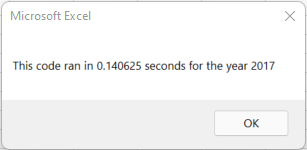
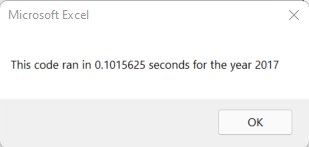
updating readme and screenshots

Changed region(s): [[0.0, 0.0, 1.0, 1.0], [0.7036, 0.898, 0.9381, 0.9252], [0.7915, 0.7891, 0.8502, 0.8707]]

diff --git a/README.md b/README.md
@@ -1,1 +1,31 @@
-# stock-analysis
+# Stock Analysis
+
+## Overview of Project:
+The purpose of this analysis was to refactor the code in the existing stock analysis file to determine if we can increase the efficiency.  The goal was to speed up the code to allow for analysis of more than just a handful of stocks.  Refactoring allowed us to collect the same information but in a more efficient manner.
+
+## Results
+As far as stock performance is concerned, 2017 fared significantly better than 2018.  Only one of the selected stocks, TERP, saw negative return in 2017 of -7.2%.  On the other hand, in 2018 there were only two stocks that had a positive return, ENPH and RUN.  The rest saw losses, some significant.
+
+Some refactoring of the code led to significant improvements in performance.  Processing times for the code dropped to around 0.1 seconds compared to just under a full second with the previous code
+
+![2017](/Resources/VBA_Challenge_2017.png)
+![2018](/Resources/VBA_Challenge_2018.png)
+### Previous Code
+Refactoring the code allowed us to eliminate some redundancy in working through the rows of data.  The previous code had a For loop to cycle through the tickers with another For loop nested inside to work through every row of data.  This meant each row was being touched once for each ticker.  This redundancy might be insignificant for smaller data sets but quickly can become burdensome as your rows increase.
+### Refactored Code
+The refactored code introduces a tickerIndex that allowed us to store individual values for each ticker as we go through the code and saved for later when we create the output.  An example is below where the tickerIndex is used to count and store the tickerVolumes.
+
+If Cells(i, 1).Value = tickers(tickerIndex) Then
+tickerVolumes(tickerIndex) = tickerVolumes(tickerIndex) + Cells(i, 8).Value
+End If
+
+This allowed us to remove one of the For loops and require only one cycle through the code.  The output values were stored in arrays instead of individual variables that had previously needed to be output before being reused again in another For loop running through all rows.  The refactored code ran significantly faster.
+
+## Summary
+Refactoring the code had the advantage of starting with a solid foundation.  It was code that had already been used successfully but just needed some tweaking and rearranging.  This was much easier than starting from scratch. Refactoring the existing code also saved time by not having to look up solutions that have already been solved. One disadvantage could be if the code was confusing, messy, or lacked comments to help understand what is happening.  In this case it might be very time consuming just to understand the current code and see if it's worth refactoring.  You could spend hours of effort just to understand and add your own comments to the old code.  In this analysis there weren't many cons that I experienced by choosing to refactor the original script.
+
+The original script had a solid foundation but was inefficient.  It had the advantage of being slightly less confusing but lacked the ability to scale in size efficiently.  The refactored script added some arrays and made the code slightly more difficult to understand, but this was solved by ensuring appropriate comments were included.  The new script allows for scalability and performs more efficiently
+
+
+
+
